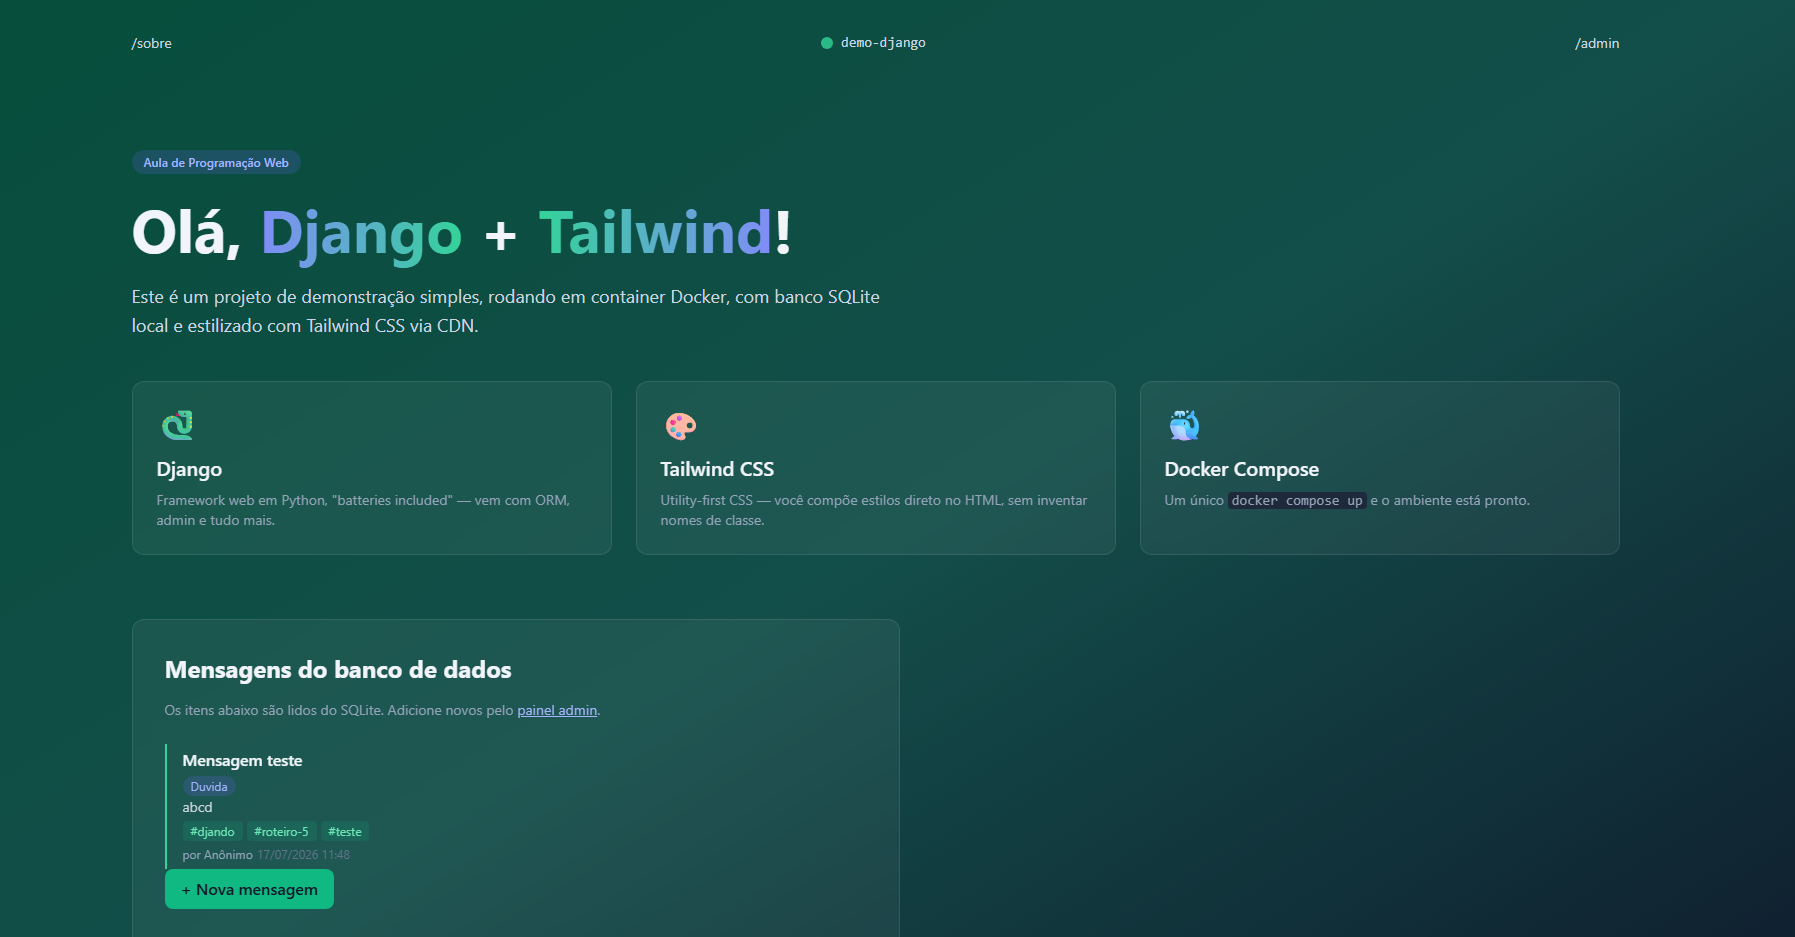
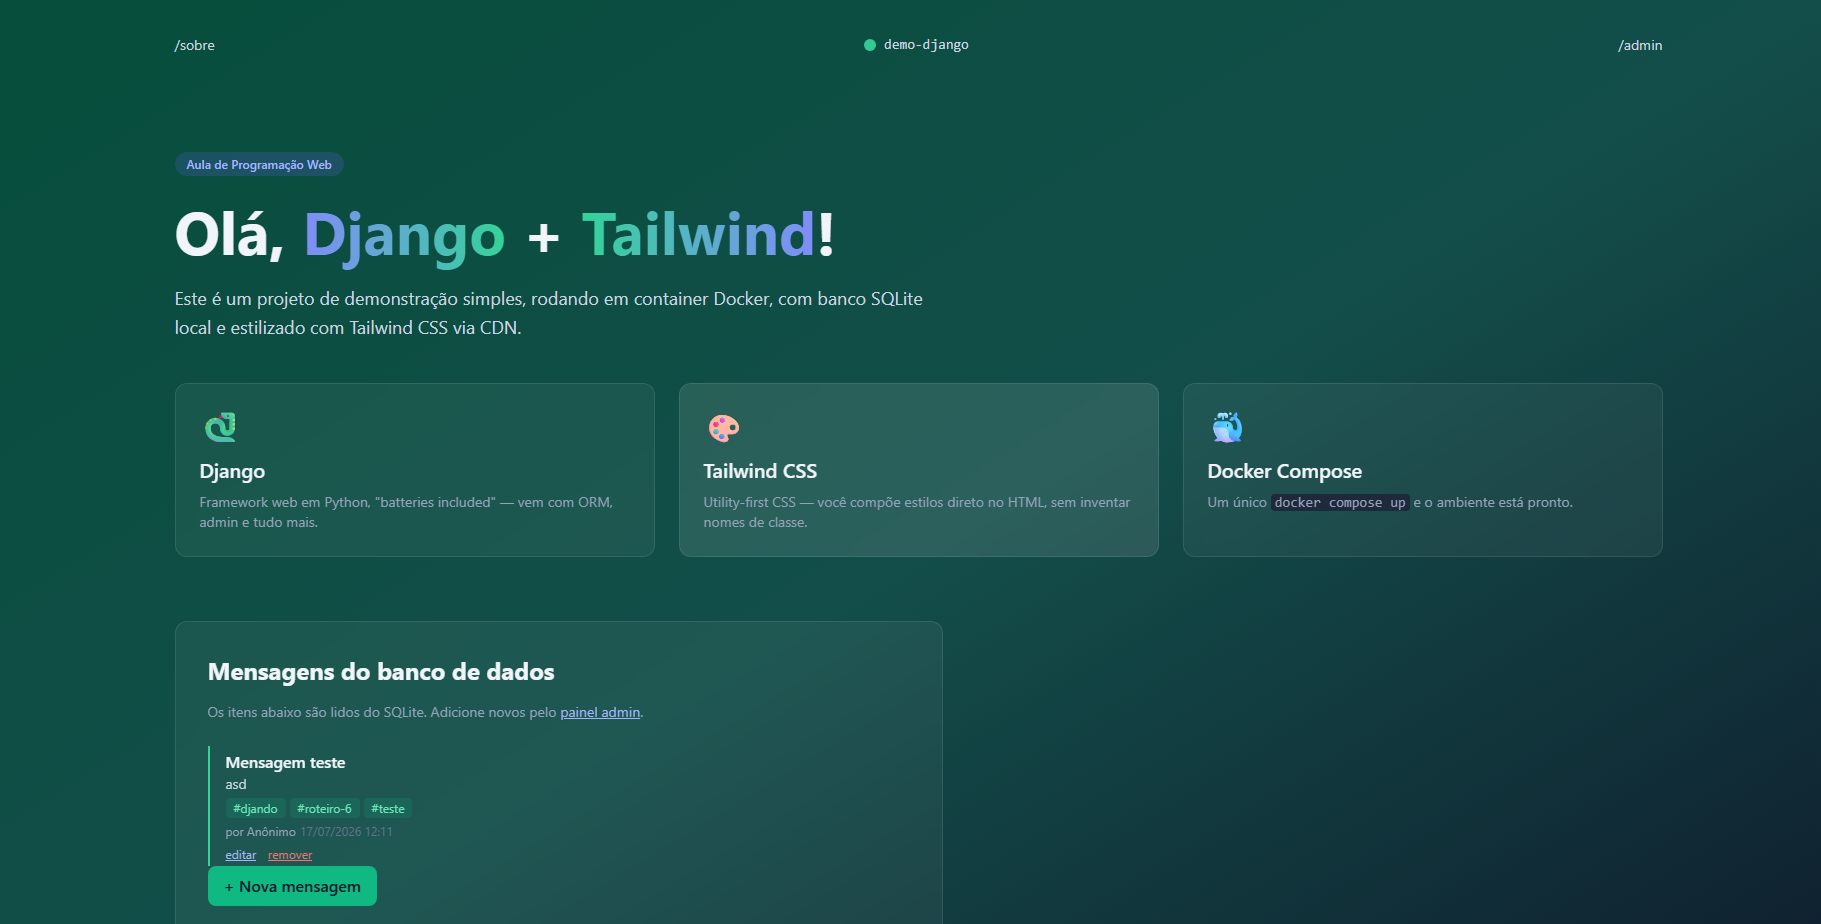
Roteiro 6

diff --git a/demo-django/templates/home/editar.html b/demo-django/templates/home/editar.html
@@ -1,0 +1,69 @@
+<!doctype html>
+<html lang="pt-br">
+  <head>
+    <meta charset="UTF-8" />
+    <meta name="viewport" content="width=device-width, initial-scale=1.0" />
+    <title>Editar mensagem — Demo Django</title>
+    <script src="https://cdn.tailwindcss.com"></script>
+  </head>
+  <body
+    class="bg-gradient-to-br from-slate-900 via-indigo-900 to-slate-900 min-h-screen text-slate-100"
+  >
+    <header class="container mx-auto px-6 py-12">
+      <nav class="flex items-center justify-between">
+        <div class="flex items-center gap-2">
+          <span
+            class="w-3 h-3 rounded-full bg-emerald-400 animate-pulse"
+          ></span>
+          <span class="font-mono text-sm text-slate-300">demo-django</span>
+        </div>
+        <a href="/" class="text-sm text-slate-300 hover:text-white transition"
+          >← voltar</a
+        >
+      </nav>
+    </header>
+
+    <main class="container mx-auto px-6 py-12">
+      <section
+        class="bg-white/5 backdrop-blur border border-white/10 rounded-xl p-8 max-w-2xl"
+      >
+        <h1 class="text-2xl font-bold mb-6">Editar mensagem</h1>
+
+        <form
+          method="post"
+          action="{% url 'editar_mensagem' mensagem.id %}"
+          class="space-y-5"
+        >
+          {% csrf_token %} {% for field in form %}
+          <div>
+            <label
+              for="{{ field.id_for_label }}"
+              class="block text-sm font-medium text-slate-300 mb-1"
+            >
+              {{ field.label }}
+            </label>
+            {{ field }} {% if field.help_text %}
+            <p class="text-xs text-slate-500 mt-1">{{ field.help_text }}</p>
+            {% endif %} {% for erro in field.errors %}
+            <p class="text-xs text-red-400 mt-1">{{ erro }}</p>
+            {% endfor %}
+          </div>
+          {% endfor %}
+
+          <button
+            type="submit"
+            class="px-5 py-2 rounded-lg bg-emerald-500 hover:bg-emerald-400 text-slate-900 font-semibold transition"
+          >
+            Salvar alterações
+          </button>
+        </form>
+      </section>
+    </main>
+
+    <footer
+      class="container mx-auto px-6 py-12 text-center text-slate-500 text-sm"
+    >
+      Feito para a aula de Programação Web · Django {{ '5.1' }}
+    </footer>
+  </body>
+</html>

diff --git a/demo-django/templates/home/remover.html b/demo-django/templates/home/remover.html
@@ -1,0 +1,65 @@
+<!doctype html>
+<html lang="pt-br">
+  <head>
+    <meta charset="UTF-8" />
+    <meta name="viewport" content="width=device-width, initial-scale=1.0" />
+    <title>Remover mensagem — Demo Django</title>
+    <script src="https://cdn.tailwindcss.com"></script>
+  </head>
+  <body
+    class="bg-gradient-to-br from-slate-900 via-indigo-900 to-slate-900 min-h-screen text-slate-100"
+  >
+    <header class="container mx-auto px-6 py-12">
+      <nav class="flex items-center justify-between">
+        <div class="flex items-center gap-2">
+          <span
+            class="w-3 h-3 rounded-full bg-emerald-400 animate-pulse"
+          ></span>
+          <span class="font-mono text-sm text-slate-300">demo-django</span>
+        </div>
+        <a href="/" class="text-sm text-slate-300 hover:text-white transition"
+          >← voltar</a
+        >
+      </nav>
+    </header>
+
+    <main class="container mx-auto px-6 py-12">
+      <section
+        class="bg-white/5 backdrop-blur border border-white/10 rounded-xl p-8 max-w-2xl"
+      >
+        <h1 class="text-2xl font-bold mb-4">Remover mensagem</h1>
+        <p class="text-slate-300 mb-6">
+          Tem certeza de que deseja remover a mensagem
+          <strong>"{{ mensagem.titulo }}"</strong>? Esta ação não pode ser
+          desfeita.
+        </p>
+
+        <form
+          method="post"
+          action="{% url 'remover_mensagem' mensagem.id %}"
+          class="flex items-center gap-3"
+        >
+          {% csrf_token %}
+          <button
+            type="submit"
+            class="px-5 py-2 rounded-lg bg-red-500 hover:bg-red-400 text-white font-semibold transition"
+          >
+            Sim, remover
+          </button>
+          <a
+            href="/"
+            class="px-5 py-2 rounded-lg bg-white/10 hover:bg-white/20 text-slate-200 transition"
+          >
+            Cancelar
+          </a>
+        </form>
+      </section>
+    </main>
+
+    <footer
+      class="container mx-auto px-6 py-12 text-center text-slate-500 text-sm"
+    >
+      Feito para a aula de Programação Web · Django {{ '5.1' }}
+    </footer>
+  </body>
+</html>

diff --git a/demo-django/templates/home/index.html b/demo-django/templates/home/index.html
@@ -119,7 +119,7 @@
             </span>
             {% endif %}
             <p class="text-sm text-slate-300">{{ m.conteudo }}</p>
-            {% if m.tags.all %} {# ← novo #}
+            {% if m.tags.all %}
             <div class="flex flex-wrap gap-1 mt-1">
               {% for tag in m.tags.all %}
               <span
@@ -134,6 +134,20 @@
             <span class="text-xs text-slate-500"
               >{{ m.criada_em|date:"d/m/Y H:i" }}</span
             >
+
+            <div class="flex gap-3 mt-1">
+              {# ← novo #}
+              <a
+                href="{% url 'editar_mensagem' m.id %}"
+                class="text-xs text-indigo-300 hover:text-indigo-200 underline"
+                >editar</a
+              >
+              <a
+                href="{% url 'remover_mensagem' m.id %}"
+                class="text-xs text-red-400 hover:text-red-300 underline"
+                >remover</a
+              >
+            </div>
           </li>
           {% endfor %}
         </ul>

diff --git a/demo-django/home/views.py b/demo-django/home/views.py
@@ -1,8 +1,19 @@
-from django.shortcuts import redirect, render
+from django.contrib import messages
+from django.shortcuts import get_object_or_404, redirect, render
 from django.utils.text import slugify
 
 from .forms import MensagemForm
 from .models import Mensagem, Tag
+
+
+def _aplicar_tags(mensagem, tags_texto):
+    """Substitui as tags da mensagem pelas que vieram do formulário."""
+    mensagem.tags.clear()
+    for pedaco in tags_texto.split(","):
+        nome = slugify(pedaco)
+        if nome:
+            tag, _ = Tag.objects.get_or_create(nome=nome)
+            mensagem.tags.add(tag)
 
 
 def index(request):
@@ -19,16 +30,37 @@ def nova_mensagem(request):
         form = MensagemForm(request.POST)
         if form.is_valid():
             mensagem = form.save()
-
-            tags_texto = form.cleaned_data["tags"]
-            for pedaco in tags_texto.split(","):
-                nome = slugify(pedaco)
-                if nome:
-                    tag, _ = Tag.objects.get_or_create(nome=nome)
-                    mensagem.tags.add(tag)
-
+            _aplicar_tags(mensagem, form.cleaned_data["tags"])
+            messages.success(request, "Mensagem publicada com sucesso!")
             return redirect("index")
     else:
         form = MensagemForm()
 
     return render(request, "home/nova.html", {"form": form})
+
+
+def editar_mensagem(request, id):
+    mensagem = get_object_or_404(Mensagem, id=id)
+
+    if request.method == "POST":
+        form = MensagemForm(request.POST, instance=mensagem)
+        if form.is_valid():
+            mensagem = form.save()
+            _aplicar_tags(mensagem, form.cleaned_data["tags"])
+            messages.success(request, "Mensagem atualizada com sucesso!")
+            return redirect("index")
+    else:
+        tags_atuais = ", ".join(tag.nome for tag in mensagem.tags.all())
+        form = MensagemForm(instance=mensagem, initial={"tags": tags_atuais})
+
+    return render(request, "home/editar.html", {"form": form, "mensagem": mensagem})
+
+def remover_mensagem(request, id):
+    mensagem = get_object_or_404(Mensagem, id=id)
+
+    if request.method == "POST":
+        mensagem.delete()
+        messages.success(request, "Mensagem removida.")
+        return redirect("index")
+
+    return render(request, "home/remover.html", {"mensagem": mensagem})

diff --git a/demo-django/home/urls.py b/demo-django/home/urls.py
@@ -5,5 +5,7 @@ from . import views
 urlpatterns = [
     path("", views.index, name="index"),
     path("sobre/", views.sobre, name="sobre"),
-    path("nova/", views.nova_mensagem, name="nova_mensagem"),  
+    path("nova/", views.nova_mensagem, name="nova_mensagem"),
+    path("mensagens/<int:id>/editar/", views.editar_mensagem, name="editar_mensagem"),
+    path("mensagens/<int:id>/remover/", views.remover_mensagem, name="remover_mensagem"),
 ]

diff --git a/README.md b/README.md
@@ -1,8 +1,10 @@
-# 🚀 Django + Tailwind CSS: Formulários HTML, Segurança e Ciclo CRUD (Create)
+# 🚀 Django + Tailwind CSS: Finalizando o Ciclo CRUD (Update & Delete)
 
-Este repositório contém a quinta etapa do projeto `demo-django`. O objetivo desta fase foi abrir a aplicação para a interação do usuário comum, implementando a operação de **Criação (Create)** do ciclo CRUD diretamente na página pública por meio de formulários dinâmicos, deixando de depender exclusivamente do painel administrativo ou do terminal.
+Este repositório contém a sexta e última etapa do projeto de evolução `demo-django`. O objetivo central desta fase foi consolidar as operações do ciclo de persistência, adicionando as capacidades de **Atualização (Update)** e **Exclusão (Delete)** de registros na interface pública através de parâmetros dinâmicos de rotas e reuso inteligente de código.
 
-O ambiente continua totalmente isolado e configurado via **Docker**.
+O ambiente de desenvolvimento segue componentizado e isolado via **Docker**.
+
+> 💡 Esta etapa conclui o ciclo essencial de manipulação de dados, mapeamento de rotas, formulários e segurança utilizando o ecossistema nativo do Django Framework.
 
 ---
 
@@ -23,20 +25,37 @@ O ambiente continua totalmente isolado e configurado via **Docker**.
 
 ---
 
-### Formulário de Criação
+### Edição de Mensagem
 
-![Formulário](demo-django/imagens/image2.png)
+![Editar Mensagem](demo-django/imagens/image2.png)
+
+---
+
+### Confirmação de Exclusão
+
+![Remover Mensagem](demo-django/imagens/image3.png)
 
 ---
 
 ## 🧠 O Que Foi Aprendido Nesta Etapa
 
-- **Ciclo CRUD e Métodos HTTP:** compreensão prática da diferença entre requisições **GET** (renderização do formulário) e **POST** (envio e processamento dos dados).
-- **Formulários Automatizados (`ModelForm`):** geração e validação de formulários HTML diretamente a partir dos modelos do Django, incluindo personalização através de `widgets`.
-- **Segurança na Web (CSRF):** implementação da tag `{% csrf_token %}` para proteção contra ataques do tipo _Cross-Site Request Forgery_.
-- **Padrão Post/Redirect/Get (PRG):** utilização de `redirect()` após o processamento do formulário para evitar submissões duplicadas.
-- **Processamento Manual de Relacionamentos N:N:** captura de texto livre, separação de tags por vírgulas, uso de `slugify` e reaproveitamento de registros com `get_or_create()`.
-- **Mensagens Temporárias (Flash Messages):** utilização do framework `django.contrib.messages` para exibir feedback ao usuário após operações realizadas.
+- **Parâmetros de rota (Path Converters):** captura dinâmica de identificadores através de URLs como `<int:id>`.
+- **Resiliência e segurança (`get_object_or_404`):** tratamento automático de registros inexistentes com resposta HTTP 404.
+- **Reuso de formulários com `instance`:** utilização do mesmo `ModelForm` para criação e edição de registros.
+- **Refatoração com o princípio DRY:** extração da lógica de processamento de tags para uma função reutilizável.
+- **Sincronização de relacionamentos N:N:** uso de `.clear()` para remover associações antigas antes de aplicar novas tags.
+- **Exclusões seguras:** implementação de fluxo de confirmação utilizando requisições `POST` protegidas por CSRF.
+
+---
+
+## 🔄 Visão Geral do Ciclo CRUD Concluído
+
+| Letra | Operação | Método HTTP | Rota (URL)                 | Interface                             |
+| :---: | -------- | :---------: | -------------------------- | ------------------------------------- |
+| **C** | Create   |   `POST`    | `/nova/`                   | Formulário público (`nova.html`)      |
+| **R** | Read     |    `GET`    | `/`                        | Página inicial (`index.html`)         |
+| **U** | Update   |   `POST`    | `/mensagens/<id>/editar/`  | Formulário preenchido (`editar.html`) |
+| **D** | Delete   |   `POST`    | `/mensagens/<id>/remover/` | Tela de confirmação (`remover.html`)  |
 
 ---
 
@@ -46,42 +65,66 @@ Certifique-se de ter o **Docker** e o **Docker Compose** instalados em sua máqu
 
 ### 1. Subir o container e iniciar o servidor
 
-Para construir a imagem e iniciar a aplicação, execute:
+Execute:
 
-```bash
+```bash id="rn4g8x"
 docker compose up --build
 ```
 
 A aplicação estará disponível em:
 
-```text
+```text id="0vlvhj"
 http://localhost:8000
 ```
 
-### 2. Acessar a aplicação
+### 2. Aplicar as migrações
+
+Caso esteja executando o projeto pela primeira vez:
+
+```bash id="ygcth4"
+docker compose run --rm web python manage.py makemigrations
+docker compose run --rm web python manage.py migrate
+```
+
+### 3. Acessar a aplicação
 
 Abra o navegador e acesse:
 
-```text
+```text id="tfjmb8"
 http://localhost:8000
 ```
 
-A partir desta etapa, novas mensagens podem ser criadas diretamente pela interface pública da aplicação.
+---
+
+## 🧪 Funcionalidades Disponíveis
+
+Após concluir todas as etapas do projeto, a aplicação permite:
+
+- Criar novas mensagens.
+- Visualizar mensagens cadastradas.
+- Editar mensagens existentes.
+- Remover mensagens com confirmação.
+- Gerenciar categorias e tags.
+- Utilizar relacionamentos **1:N** e **N:N** através do ORM do Django.
+- Receber feedback visual por meio de mensagens temporárias (_flash messages_).
 
 ---
 
-## 🔄 Fluxo de Criação de Mensagens
+## 🏁 Conclusão
 
-1. O usuário acessa o formulário através de uma requisição **GET**.
-2. O Django renderiza o formulário utilizando um `ModelForm`.
-3. O usuário preenche os campos e envia os dados através de uma requisição **POST**.
-4. O servidor valida as informações recebidas.
-5. As tags são processadas e associadas à mensagem.
-6. Uma mensagem de sucesso é exibida.
-7. O usuário é redirecionado para evitar reenvios acidentais do formulário.
+Ao final desta etapa, a aplicação implementa integralmente o ciclo **CRUD (Create, Read, Update e Delete)** utilizando recursos nativos do Django, incluindo:
+
+- ORM e relacionamentos entre modelos.
+- Formulários automatizados com `ModelForm`.
+- Validação e proteção CSRF.
+- Rotas dinâmicas.
+- Mensagens temporárias.
+- Reaproveitamento de código e boas práticas de desenvolvimento.
+
+Este projeto representa uma base sólida para aplicações web mais complexas construídas com Django.
 
 ---
 
 ## 💡 Sobre o Projeto
 
-Este projeto faz parte do meu portfólio de estudos em desenvolvimento backend com Python e Django, com foco em desenvolvimento web, modelagem de dados, segurança de aplicações e boas práticas de construção de sistemas.
+Este projeto faz parte do meu portfólio de estudos em desenvolvimento backend com Python e Django, com foco em desenvolvimento web, modelagem de dados, ORM, segurança e boas práticas de engenharia de software.
